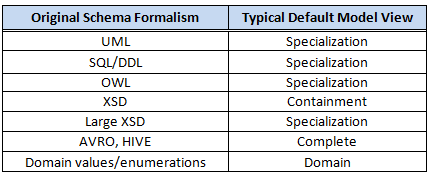
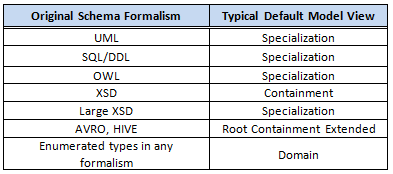
Remove old documentation and add new documentation for models in Open II.

diff --git a/OpenII Documentation/html/faq.html b/OpenII Documentation/html/faq.html
@@ -18,7 +18,7 @@
 				<li><a href="#faq03">What is an OpenII model view? Or how does Open II display a schema?</a></li>
 				<li><a href="#faq04">What is the default hierarchical model viewer for the OpenII tools?</a></li>
 				<li><a href="#faq05">How do I change the model view used to display a schema in OpenII?</a></li>
-				<li><a href="#faq06">How do I view code lists (Domains) in OpenII?</a></li>
+				<li><a href="#faq06">How do I view code lists (value domains) in OpenII?</a></li>
 				<li><a href="#faq07">What is the most successful way of viewing large schemata in OpenII?</a></li>
 				<li><a href="#faq08">How can I improve the performance and results from matching very large schemata?</a></li>
 				<li><a href="#faq09">What are the different types of matching done in Proximity, Harmony and Unity?</a></li>
@@ -48,7 +48,7 @@
 					<div class="chapter">
 						<h3><a name="faq01">What is the neutral schema format that is used by the OpenII tools?</a></h3>
 
-						The Open II schema importer translates popular formalisms (such as XSD, Relational, OWL, and others into one common format called the MITRE Meta Model (M3). The schema components in M3 are Entity, Attribute, Relationship, Subtype, Containment, and Domain. OpenII schemata persist in a relational database and are managed by the OpenII tool called SchemaStore.
+						The Open II schema importer translates popular formalisms (such as XSD, Relational, OWL, and others) into one common format called the MITRE Meta Model (M3). The schema components in M3 are Entity, Attribute, Relationship, Subtype, Containment, and Domain. OpenII schemata persist in a relational database and are managed by the OpenII tool called SchemaStore.
 						<br/><br/> 
 
 						The table below lists the names and definitions of the M3 schema components.<br/><br/>
@@ -60,8 +60,8 @@
 					<div class="chapter">
 						<h3><a name="faq02">Which schema formats can Open II Import?</a></h3>
 
-						The OpenII tool called SchemaStore imports many popular schema formalisms, such as XSD, RDF, or SQL DDL. SchemaStore translates those formalisms into the MITRE Meta Model (M3).  The two tables below shows the alignment of schema components from some popular meta-data formalisms to the M3 schema components. OpenII has many importers and new importers can be added.<br/><br/>					
-						<img src="./support/faq/faq03_chart.png"/>				
+						The OpenII tool called SchemaStore imports many popular schema formalisms, such as XSD, RDF, or SQL DDL. SchemaStore translates those formalisms into the MITRE Meta Model (M3).  The two tables below show the alignment of schema components from some of the popular meta-data formalisms to the schema components in the M3 formalism. OpenII has many importers and new importers can be added.<br/><br/>					
+						<img src="./support/faq/common-formalisms-to-M3_chart.png"/>				
 						In addition to traditional formalisms, SchemaStore imports some big-data schema formats. Correspondence between those and the M3 components are shown in the table below.<br/><br/>		
 						<img src="./support/faq/Big-data-to-M3_chart.png"/>
 					[<a href="#top">top</a>]
@@ -71,14 +71,22 @@
 					<div class="chapter">
 						<h3><a name="faq03">What is an OpenII model view; how does OpenII display a schema?</a></h3>
 
-						Some OpenII tools display schemata as a hierarchies.  Hierarchical displays are available in both the Harmony tool and in the Open II Schema Viewer tool. A schema that is stored in the internal MITRE Meta-model (M3) is transposed to a tree hierarchy by one of several Open II model views. A model view determines how the M3 elements are arranged in the tree. For example, an M3 entity, an M3 attribute, an M3 relationship, and an M3 containment, each may become nodes in the hierarchical display of the model. <br/><br/>  
+						Some OpenII tools display a schema as a hierarchy.  Hierarchical displays are available in both the Harmony tool and in the Open II Schema Viewer tool. A schema that is stored in the internal MITRE Meta-model (M3) is transposed to a tree hierarchy by one of several Open II model views. A model view determines how the M3 elements in a schema are arranged in a tree view. For example, an M3 entity, an M3 attribute, an M3 relationship, an M3 containment, and an M3 Domain, each may become nodes in the hierarchical display of the model. <br/><br/>  
 
-						Choices for model views include the &quot;Specialization View&quot; and the &quot;Containment View&quot;. A user chooses a model view in either the Edit Schema Properties dialog, or in any Open II window that allows for hierarchical displays of a schema (for example Harmony and Schema Viewer).<br/><br/>
-						
-						An OpenII model view determines whether the nodes that appear in a hierarchical organization appear as roots, leaves, siblings, or do not appear at all.  The &quot;Specialization View&quot; is organized according to entity type and subtype associations in the schema. For example, imagine an animal taxonomy displayed using the specialization view. The Animal entity will be displayed as the root, the Cat entity will be indented under the Animal entity, and the Cheetah entity will be indented under the Cat entity. This arrangement is due to the class specialization association among these entity classes. The Specialization View is a type hierarchy. The Specialization View will also display the properties of the entity type indented under the entity type name.<br/><br/>  
-
-						The Containment View displays the hierarchy organized according to the properties that comprise an entity.  For example, a Cat entity which represents the feline animal species may be composed of properties representing limbs, fur, and other characteristics.  Each of those properties may also be defined as entities and together they all make up the representation of Cat.<br/><br/>
-						
+						Choices for model views include the &quot;Specialization View&quot; and the &quot;Containment View&quot;. A user chooses a model view in either the Edit Schema Properties dialog, or in any Open II window that allows for hierarchical displays of a schema (for example Harmony and Schema Viewer). To change the model in which you are viewing the schema, see <a href="#faq05">FAQ 5</a>.
+						<br/><br/>
+						An OpenII model view determines whether the nodes that appear in a hierarchical organization appear as roots, leaves, siblings, or do not appear at all.  
+						<br/><br/>
+						Here is what the same schema about vehicle types might look like in the &quot;Specialization View&quot; and the &quot;Containment View&quot;, side-by-side.
+						<img src="./support/faq/specialization-containment-view-compared.png"/>		
+						<br/><br/>  
+						The Specialization View is organized according to entity type and subtype associations in the schema. The Specialization View is a type hierarchy, as shown in the example above by indenting the AircraftType and WatercraftType entity nodes under the VehicleType entity node. The Specialization View will also display the properties of an entity type indented under the entity node.
+						<br/><br/>  
+						The Containment View displays the hierarchy organized according to the schema's containment hierarchy as it would appear in an XML document, for example.  In the example above, the Vehicle containment node has the attribute NumericIdentifier node indented below, as well as another property called Driveforce.  Driveforce is a containment itself its proproperties appear indented under it. Note that the Containment View doesn't show that there are subtypes of the VehicleType.
+						<br/><br/>
+						The Vehicle schema has a Domain called VehicleEnergyTypeCode. The domain value set can be seen by viewing the schema with the model view called Domain. See screen shot below.
+						<img src="./support/faq/domain-view.png"/>
+						<br/><br/>				
 						For more detail on the basic model views in Open II, see the chart below.
 						<img src="./support/faq/Model-View-Node-Hierarchy_chart.png"/>						 
 						[<a href="#top">top</a>]
@@ -88,7 +96,7 @@
 					<div class="chapter">
 						<h3><a name="faq04">Which hierarchical model view is used by default in OpenII tools?</a></h3>
 
-						If the model view assigned to a schema has not already been set by a user (see <a href="#faq05">FAQ 5</a>), then OpenII tools will default to one of the hierarchical views described in <a href="#faq03">FAQ 3</a>.  The default view is based on characteristics of a schema such as the ratios of subtype, relationship, and containment components in the schema.<br/><br/>Because certain combinations of schema components are typically found in certain schema formalisms, the default view is somewhat predictable based on the original formalism of the schema. For example, relational schemata will typically be shown with the Specialization view. XML schemata will typically be shown with the Containment view, unless a schema is very large in which case OpenII tools will automatically default to the Specialization view.  Some large XML schemata can exceed memory capacity if displayed with the Containment view.  Domains and domain values are shown with the Domain view.<br/><br/>
+						If the model view assigned to a schema has not already been set by a user (see <a href="#faq05">FAQ 5</a>), then OpenII tools will default to one of the hierarchical views described in <a href="#faq03">FAQ 3</a>.  The default view is based on characteristics of a schema such as the ratios of subtype, relationship, and containment components in the schema.<br/><br/>Because certain combinations of schema components are typically found in certain schema formalisms, the default view is somewhat predictable based on the original formalism of the schema. For example, OWL schemata will typically be shown with the Specialization view. XML schemata will typically be shown with the Containment view, unless a schema is very large. OpenII tools will automatically default to displaying a very large XSD using the Specialization view because its size could exceed memory capacity if displayed with the Containment view.  Domains and domain values are shown with the Domain view.<br/><br/>
 
 						The table below shows typical default views for some of the popular schema formalisms.<br/><br/>
 						<img src="./support/faq/default-model-views_chart.png"/>
@@ -133,10 +141,10 @@
 
 				<li>
 					<div class="chapter">
-						<h3><a name="faq06">How does a user view code lists (Domains) in OpenII?</a></h3>
+						<h3><a name="faq06">How does a user view code lists (value domains) in OpenII?</a></h3>
 
 						There are multiple model views for an OpenII schema. See <a href="#faq03">FAQ 3</a>
-						explaining some of those.  To view domains and domain values (enumerated
+						for an explaination of how a schema can be displayed.  To view domains and domain values (enumerated
 						values) that are part of a schema or comprise the whole schema, switch the
 						model view to "Domain".  This will show the domain data components in the
 						schema and their associated value lists in both the Schema Viewer and 
@@ -166,8 +174,8 @@
 						<ul>
 							<li>
 								<b>Tip: </b>Use the appropriate schema model view.<br/>
-								<b>How: </b>For large XSD schemata, particularly NIEM Core and the NIEM Domains, the schema model view [<a href="#faq04">FAQ 4</a> and 
-<a href="#faq05">FAQ 5</a>] should be Specialization.  This will ensure best performance in viewing and matching operations. (If the Containment view is preferred, make sure to follow the tips for reducing
+								<b>How: </b>For large XSD schemata, particularly NIEM Core and the NIEM Domains, the schema model view [<a href="#faq03">FAQ 3</a> and 
+<a href="#faq04">FAQ 4</a>] should be Specialization.  This will ensure best performance in viewing and matching operations. (If the Containment view is preferred, make sure to follow the tips for reducing
 compute cycles and memory usage.)
 							</li><br/><br/>
 							<li>
@@ -194,13 +202,13 @@ compute cycles and memory usage.)
 									</li>
 									<li>Finally you can filter out of view certain kinds of matches using the filtering check boxes in the bottom right corner of the Harmony window.
 										<ol type="a"><li>
-										The Best Filter, if checked will only allow the highest scored mapping between nodes be displayed.  See <a href="#faq12">FAQ 12</a> for more detail on what is a "Best" match. 
+										The Best Filter, if checked will only allow the highest scored mapping between nodes be displayed.  See <a href="#faq13">FAQ 13</a> for more detail on what is a "Best" match. 
 										</li><li>
 										The User Filter displays map lines that have a score of 100% due to a user manually accepting the match.
 										</li><li>
 										The System Filter displays those matches that have not been accepted by a user but were generated by the system.
 										</li><li>
-										The Hierarchy Filter effects the display of duplicate matches that are automatically generated from multiple references to the same data component. NIEM schemas have a lot of this as explained in <a href="#faq27">FAQ 27</a>. Checking or un-checking this filter can make a difference in the number of mapping lines displayed -- but only when viewing the schema in Containment model view.  If the schema does not repeatedly reference its own data components or it is displayed with the Specialization model view, then the Hierarchy Filter does not make a difference. For more on the Hierarchy Filter see <a href="#faq29">FAQ 29</a>.
+										The Hierarchy Filter effects the display of duplicate matches that are automatically generated from multiple references to the same data component. NIEM schemas have a lot of this as explained in <a href="#faq27">FAQ 27</a>. Checking or un-checking this filter can make a difference in the number of mapping lines displayed -- but only when viewing the schema in Containment model view.  If the schema does not repeatedly reference its own data components or it is displayed with the Specialization model view, then the Hierarchy Filter does not make a difference. For more on the Hierarchy Filter see <a href="#faq28">FAQ 28</a>.
 										</li> </ol>
 									</li>
 									</ol>
@@ -684,7 +692,7 @@ compute cycles and memory usage.)
 						The tools can be used to explore existing IEPD schemata and to map NIEM to
 						a business domain model.  After the IEPD is finalized, OpenII can be used
 						to map the exchange schema to source and target repository schemata. There
-						are several NIEM related tasks listed in <a href="#faq25">FAQ 25</a> for
+						are several NIEM related tasks listed in <a href="#faq26">FAQ 26</a> for
 						which OpenII can help.  There are also enterprise data management activities
 						that can benefit from OpenII capabilities.<br/><br/>
 
@@ -701,7 +709,7 @@ compute cycles and memory usage.)
 						The Open II schema view displays all the repeated references to data
 						components.  For example, NIEM Core may have about two thousand unique XSD
 						elements, but when fully expanded into an OpenII containment hierarchy view
-						it will have about eleven thousand schema display nodes. See <a href="#fa07">FAQ 7</a>
+						it will have about eleven thousand schema display nodes. See <a href="#fa08">FAQ 8</a>
 						or ways to improve performance with large schemata.<br/><br/>
 
 						[<a href="#top">top</a>]
